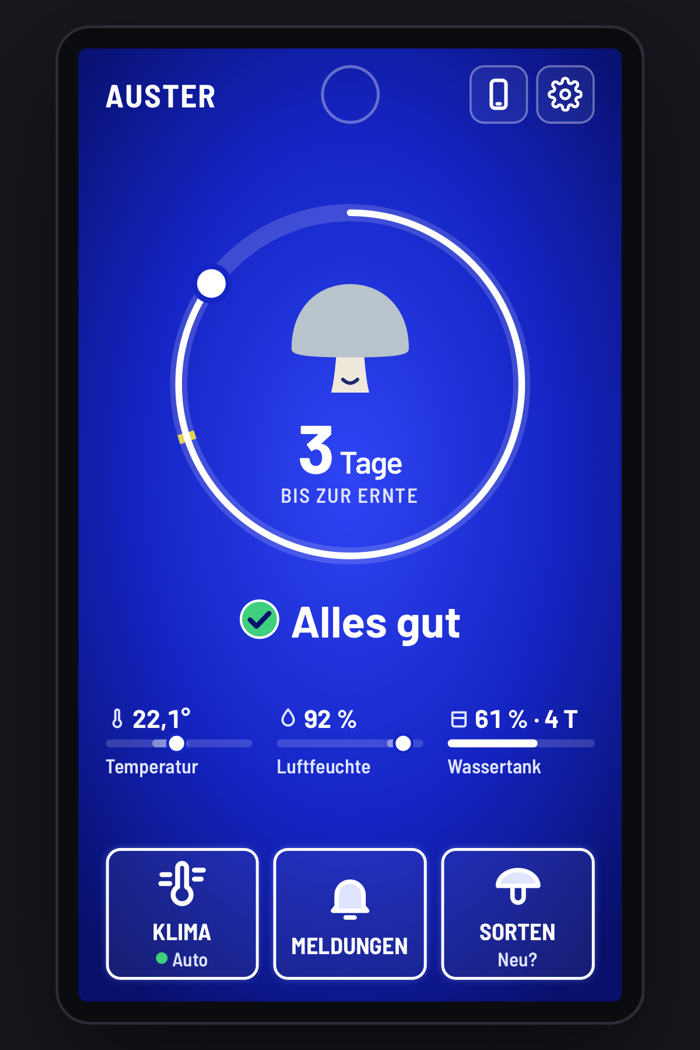
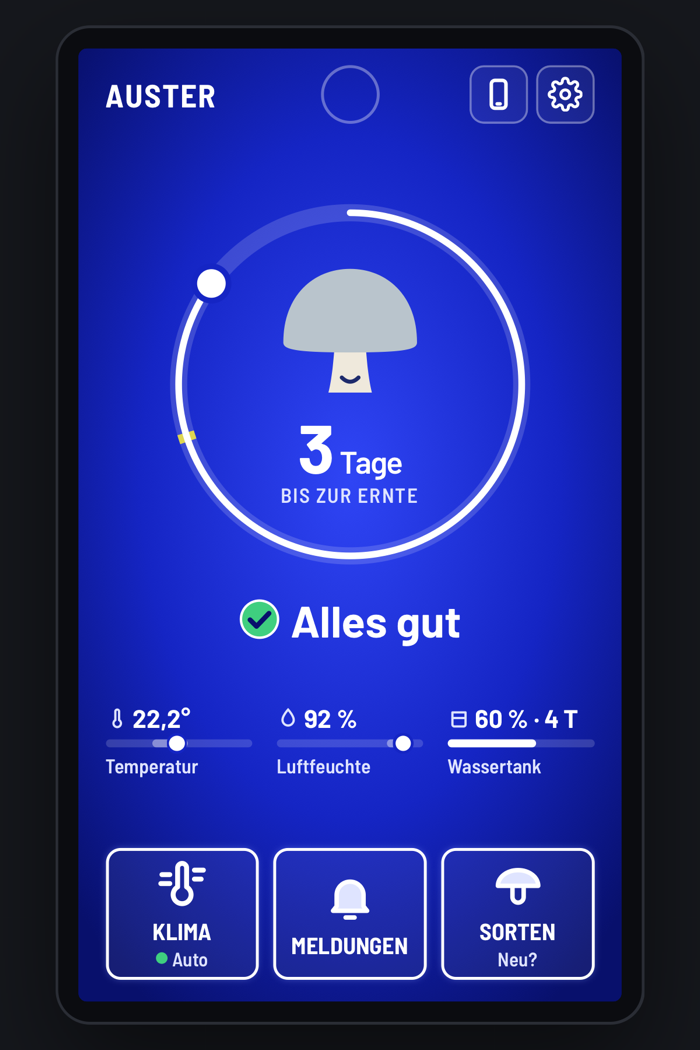
feat: Ernte fertig als 5-s-Zeitraffer, Pilz wächst in drei Stufen

diff --git a/01-konzept/bedienfeld/index.html b/01-konzept/bedienfeld/index.html
@@ -90,7 +90,7 @@ button{font:inherit;color:inherit;cursor:pointer;-webkit-tap-highlight-color:tra
 .ring > svg{position:absolute;inset:0;width:100%;height:100%;transform:rotate(-90deg);overflow:visible}
 .ring circle{fill:none;transition:stroke-dasharray .8s ease}
 .inner{position:absolute;inset:0;display:flex;flex-direction:column;align-items:center;justify-content:center;line-height:1}
-.shroom{width:27cqw;height:27cqw;margin-top:2cqw;overflow:visible}
+.shroom{width:27cqw;height:27cqw;margin-top:2cqw;overflow:visible;transform-origin:50% 88%;transition:transform .45s ease-out}
 .shroom .drop{fill:var(--ink-soft);opacity:0}
 .misting .drop{animation:drip 2.2s ease-in infinite}
 .misting .drop:nth-of-type(2){animation-delay:.7s}.misting .drop:nth-of-type(3){animation-delay:1.4s}
@@ -444,13 +444,16 @@ function step(d){
 for(let i=0;i<120;i++) step(new Date(Date.now()-(120-i)*3000));
 
 /* Fortschritt bis zur (nächsten) Ernte: Durchwachsen + Fruchtung, nach der Ernte Ruhe + Fruchtung */
+/* Zeitraffer (Admin „Ernte fertig“): gespielte Tage seit dem Ansetzen, sonst null */
+let lapse=null, lapseTimer=null;
 function progress(){
   const P=SPECIES[S.species].p, d=day();
   let tot, el, tick;
   if(S.phase==="ruhe"){tot=P.ruhe.days+P.frucht.days; el=d-1; tick=P.ruhe.days/tot}
   else{tot=P.kol.days+P.frucht.days; el=(S.phase==="frucht"?P.kol.days:0)+d-1; tick=P.kol.days/tot}
   if(demo.harvest&&S.phase==="frucht") el=tot;
-  return {p:Math.max(0,Math.min(1,el/tot)), left:Math.max(0,Math.ceil(tot-el)), tick};
+  if(lapse!==null) el=lapse;
+  return {p:Math.max(0,Math.min(1,el/tot)), left:Math.max(0,Math.ceil(tot-el)), tick, tot, el};
 }
 /* Tank-Reichweite (Annahme: voller Tank reicht 7 Tage, im Urlaub 10) */
 const tankDays=()=>Math.floor(sim.tank/100*(S.away?10:7));
@@ -550,6 +553,8 @@ function render(){
   else{$("#hum").innerHTML=`${pr.left}<small>${pr.left===1?"Tag":"Tage"}</small>`;$("#humlbl").textContent="bis zur Ernte"}
   // Pilz-Gesicht: froh (ok/info), besorgt (warn), gestresst (crit)
   const sh=$("#shroom");
+  // Wachstum in drei Stufen: klein · mittel (Grundgröße) · groß
+  sh.style.transform=`scale(${S.power?(pr.p<1/3?.84:pr.p<2/3?1:1.14):1})`;
   $("#cap").setAttribute("fill",SPECIES[S.species].cap);
   $("#mouth").setAttribute("d",!S.power?"M46 80h8":sev==="crit"?"M44 83q6 -7 12 0":sev==="warn"?"M45 81q5 -3 10 0":"M45 79q5 5 10 0");
   $("#brows").setAttribute("opacity",sev==="crit"||sev==="warn"?1:0);
@@ -843,6 +848,18 @@ function simFault(k){
   toggleDemo(k);
   if(k==="cold"){sim.t=tgt().t[0]-2.6;render()}
 }
+/* 5 s Zeitraffer bis zur Ernte: Ring läuft voll, Tage zählen herunter, der Pilz wächst. Danach wie bisher Ernte fertig. */
+function startLapse(){
+  if(lapseTimer) return;
+  clearSituations(); closePanel(); S.sleep=false; S.power=true;
+  const pr=progress(), el0=pr.el, tot=pr.tot, t0=performance.now();
+  msg("Zeitraffer: "+pr.left+" Tage in 5 Sekunden");
+  lapseTimer=setInterval(()=>{
+    const k=Math.min(1,(performance.now()-t0)/5000);
+    lapse=el0+(tot-el0)*k; render();
+    if(k>=1){clearInterval(lapseTimer);lapseTimer=null;lapse=null;simHarvest()}
+  },50);
+}
 function simHarvest(){
   clearSituations(); closePanel();
   S.sleep=false;S.power=true;
@@ -859,11 +876,11 @@ function demoPanel(){
   const SHROOM_IC='<svg viewBox="0 0 24 24" fill="none" stroke="currentColor" stroke-width="2.2" stroke-linejoin="round"><path d="M3 12.5a9 7.5 0 0 1 18 0z"/><path d="M10 12.5V20h4v-7.5"/></svg>';
   panel("admin","Admin-Modus",`<div class="list">
       <button class="opt" data-f>${IC.warn}<div>Fehlermeldung<small>Wassertank leer</small></div></button>
-      <button class="opt" data-h>${SHROOM_IC}<div>Ernte fertig<small>Pilze reif, dann neue Sorte</small></div></button>
+      <button class="opt" data-h>${SHROOM_IC}<div>Ernte fertig<small>5 s Zeitraffer bis zur Ernte</small></div></button>
       <button class="opt" data-reset>${RESET_IC}<div>Zurücksetzen<small>Start: 15 Tage bis zur Ernte</small></div></button>
     </div>`,p=>{
     p.querySelector("[data-f]").onclick=()=>simFault("tank");
-    p.querySelector("[data-h]").onclick=simHarvest;
+    p.querySelector("[data-h]").onclick=startLapse;
     p.querySelector("[data-back]").onclick=settingsPanel;
     p.querySelector("[data-reset]").onclick=()=>{try{localStorage.removeItem("growbox-display-v5")}catch(e){};location.reload()};
   });

diff --git a/BRIEF.md b/BRIEF.md
@@ -59,7 +59,7 @@ Von Felix bestätigt. Diese Tabelle ist der maßgebliche Stand; Überholtes wird
 | 7–8 | Hardware | **Raspberry Pi bleibt Steuerrechner; als Display dient ein fest eingebautes iPhone 13 mini** (statt Touch Display 2), das die Web-Oberfläche des Pi über WLAN zeigt; Dauerstrom per Kabel. **Echt:** Taster und LED. **Simuliert:** Feuchte und Temperatur (für die Vorführung umschaltbar). Lüfter, Vernebler und Sensor sind nicht Teil des Prototyps. |
 | – | **Leitidee** | **B „Radikal einfach“:** ein großer Zustand (Farbe + Symbol + ein Satz), darunter drei große Kacheln. Verworfen: A „Pilz-Begleiter“ (Charakter, Gamification), C „Physisch zuerst“ (Taster/Drehknopf/LED-Ring). |
 | 10 | Startbild | **Nur 2 Stufen:** „Alles gut“ (grüner Kreis mit Haken) oder **Warnung** (gelbes Warndreieck nach ISO 7010, schwarzer Rand und „!“). Immer Form + Farbe + Text. **Blinken nur beim Warnpunkt** oben (Handeln nötig, Folie 27); alles andere ruhig. Hinweise wie „Ernte prüfen“ laufen unter „Alles gut“. |
-| 10 | Bedienfeld (Box) | **Stand 2026-11-02 (v6):** `01-konzept/bedienfeld/index.html`, aufbauend auf dem Panel-Prototyp (https://claude.ai/artifact/EGmf5bvFTK16eYGfKWVkPE). Begründungen mit Folien: `04-final/entscheidungen-folien.md` und `01-konzept/folien-recherche.md`. **Grundsatz:** Das Display bleibt schlank, Erweitertes gehört in die App (eigene Sorten, 1 Min lüften/befeuchten, Analytics). **Kopfzeile:** eine Zeile, alles 44 pt hoch: links Sorte in Großbuchstaben (AUSTER …); Mitte **Warnpunkt** (dunkler Ring; leuchtet orange und **blinkt nur im Standby**, ohne „!“; wirkt wie ein Warnlicht, siehe Ruhemodus); rechts **Handy-Symbol** und **Zahnrad** als gleich große Knöpfe. Handy antippen → Code + Knopf **VERBUNDEN** → Symbol ausgeblendet (zurück: Einstellungen → Handy verbinden → Trennen; **nach dem Neuladen ist das Symbol wieder da**, für die Präsentation). Keine Uhr. **Mitte:** Ring = Fortschritt bis zur Ernte, in der Mitte Tage bis zur Ernte; darunter Status (nur „Alles gut“, etwas größer, ohne Satz darunter (2026-11-04), oder Warnung mit Handlung und einem großen Knopf). **Werte:** Temperatur · Luftfeuchte · Wassertank einheitlich (Zahl, Balken, Name); Tank als `62 % · 4 T` in gleicher Schrift (T = Tage, Vorlesetext „reicht ca. 4 Tage“). Werte außerhalb des Bereichs mit Warndreieck. **3 Kacheln:** **KLIMA** (klein „Auto“ mit ruhigem grünem Punkt) · **MELDUNGEN** (Zahl) · **SORTEN** (klein „Neu“). **Klima-Fenster (2026-11-04):** ein Satz oben („Die Box regelt Luft, Feuchte, Wärme und Licht selbst.“), darunter 4 Balken wie in den Einstellungen: Lüfter · Nebler · Heizung · Licht, je **AUTO** und 1–3 weiße Wörter (frische Luft · hält feucht · hält warm · Tag und Nacht); **ohne Eingriff**, keine Live-Zustände, kein Taster-Hinweis mehr. **Klima und Meldungen** haben dieselbe Größe wie die Einstellungen. **Meldungen:** Stand mit Datum/Uhrzeit, offene Meldungen mit Handlung und „seit“, **Verlauf behobener Meldungen grün mit Haken** („behoben · von – bis“). „Zu nass“/„Braucht Frischluft“ mit GESEHEN. **Sorten · Neu:** oben Stand des Durchgangs und Knopf **Neu ansetzen …** (Sorte wählen, aktuelle „wie bisher“ oben) → Hinweis, was verloren geht → **2 s gedrückt halten** → Kammer leeren → Zuchtset einsetzen, Tag 1. Darunter Sorten **ansehen** (Schwierigkeit, Dauer, Temperatur, Feuchte). **Notfall-Rückweg** „Zurück zu …“ 14 Tage. **Einstellungen (Zahnrad):** Handy verbinden · Urlaub · **Sprache** (Prototyp nur Deutsch, andere ausgegraut) · **Darstellung** (Standard Blau / **Hoher Kontrast** Schwarz) · **Hilfe** (rote Flagge, früher „Fehler melden“: Kategorie antippen, geht an die App); „Handy verbinden“ zeigt nur „Meldungen aufs Handy“ (Code erst nach Antippen); „Über diese Box“ entfällt. Balken in Einstellungen und Admin ca. 1,5× so hoch, Schrift größer (Fingerbedienung); ganz unten **Admin-Modus**. **Kein Ruhemodus als Einstellung** (2026-11-04, zu verwirrend für die Präsentation; Standby lässt sich nicht von Hand einschalten). **Standby** nur im Admin-Fall „Tank leer“: Display schwarz ohne Text, nur ein **oranger Punkt (ohne „!“) blinkt**; Antippen beendet den Standby, das Blinken geht aus, und die normale Ansicht zeigt die Meldung. In der normalen Ansicht blinkt kein Punkt, die Warnung steht als Text mit Warndreieck da. **Urlaub:** nur unter Einstellungen, oben „URLAUB ✕“. **Barrierefreiheit:** Kontrast Text ≥ 4,5 : 1 (Warntexte weiß, Nebentexte `#dfe4ff`), Touch-Ziele ≥ 44 pt, Schrift für 50–70 cm, Status nie nur über Farbe, Blinken langsam und bei „Bewegung reduzieren“ aus. Licht nur über Taster und App (Ausnahme bis 8/20 Uhr). Heizung simuliert, Kühlen nur Hinweis. **Admin-Modus (2026-11-04, für die Präsentation):** nur noch **genau zwei Fälle** plus **Zurücksetzen**: **1 · Tank leer** (Standby, siehe oben; AUFGEFÜLLT behebt es, danach bleibt das Display an) und **2 · Pilze fertig** (Ernte fertig → GEERNTET → SORTEN → Neu ansetzen). **Startzustand:** Austernpilz frisch angesetzt (Wachstumsphase), **15 Tage bis zur Ernte**, damit der Sprung zur Ernte sichtbar ist. Die übrigen Fehler, automatischen Vorführungen, Tag +1, Taster und Messwerte sind nicht mehr erreichbar (Code bleibt). Ältere Stände (v1–v5, Original) in `01-konzept/bedienfeld/verlauf/`. |
+| 10 | Bedienfeld (Box) | **Stand 2026-11-02 (v6):** `01-konzept/bedienfeld/index.html`, aufbauend auf dem Panel-Prototyp (https://claude.ai/artifact/EGmf5bvFTK16eYGfKWVkPE). Begründungen mit Folien: `04-final/entscheidungen-folien.md` und `01-konzept/folien-recherche.md`. **Grundsatz:** Das Display bleibt schlank, Erweitertes gehört in die App (eigene Sorten, 1 Min lüften/befeuchten, Analytics). **Kopfzeile:** eine Zeile, alles 44 pt hoch: links Sorte in Großbuchstaben (AUSTER …); Mitte **Warnpunkt** (dunkler Ring; leuchtet orange und **blinkt nur im Standby**, ohne „!“; wirkt wie ein Warnlicht, siehe Ruhemodus); rechts **Handy-Symbol** und **Zahnrad** als gleich große Knöpfe. Handy antippen → Code + Knopf **VERBUNDEN** → Symbol ausgeblendet (zurück: Einstellungen → Handy verbinden → Trennen; **nach dem Neuladen ist das Symbol wieder da**, für die Präsentation). Keine Uhr. **Mitte:** Ring = Fortschritt bis zur Ernte, in der Mitte Tage bis zur Ernte; darunter Status (nur „Alles gut“, etwas größer, ohne Satz darunter (2026-11-04), oder Warnung mit Handlung und einem großen Knopf). **Werte:** Temperatur · Luftfeuchte · Wassertank einheitlich (Zahl, Balken, Name); Tank als `62 % · 4 T` in gleicher Schrift (T = Tage, Vorlesetext „reicht ca. 4 Tage“). Werte außerhalb des Bereichs mit Warndreieck. **3 Kacheln:** **KLIMA** (klein „Auto“ mit ruhigem grünem Punkt) · **MELDUNGEN** (Zahl) · **SORTEN** (klein „Neu“). **Klima-Fenster (2026-11-04):** ein Satz oben („Die Box regelt Luft, Feuchte, Wärme und Licht selbst.“), darunter 4 Balken wie in den Einstellungen: Lüfter · Nebler · Heizung · Licht, je **AUTO** und 1–3 weiße Wörter (frische Luft · hält feucht · hält warm · Tag und Nacht); **ohne Eingriff**, keine Live-Zustände, kein Taster-Hinweis mehr. **Klima und Meldungen** haben dieselbe Größe wie die Einstellungen. **Meldungen:** Stand mit Datum/Uhrzeit, offene Meldungen mit Handlung und „seit“, **Verlauf behobener Meldungen grün mit Haken** („behoben · von – bis“). „Zu nass“/„Braucht Frischluft“ mit GESEHEN. **Sorten · Neu:** oben Stand des Durchgangs und Knopf **Neu ansetzen …** (Sorte wählen, aktuelle „wie bisher“ oben) → Hinweis, was verloren geht → **2 s gedrückt halten** → Kammer leeren → Zuchtset einsetzen, Tag 1. Darunter Sorten **ansehen** (Schwierigkeit, Dauer, Temperatur, Feuchte). **Notfall-Rückweg** „Zurück zu …“ 14 Tage. **Einstellungen (Zahnrad):** Handy verbinden · Urlaub · **Sprache** (Prototyp nur Deutsch, andere ausgegraut) · **Darstellung** (Standard Blau / **Hoher Kontrast** Schwarz) · **Hilfe** (rote Flagge, früher „Fehler melden“: Kategorie antippen, geht an die App); „Handy verbinden“ zeigt nur „Meldungen aufs Handy“ (Code erst nach Antippen); „Über diese Box“ entfällt. Balken in Einstellungen und Admin ca. 1,5× so hoch, Schrift größer (Fingerbedienung); ganz unten **Admin-Modus**. **Kein Ruhemodus als Einstellung** (2026-11-04, zu verwirrend für die Präsentation; Standby lässt sich nicht von Hand einschalten). **Standby** nur im Admin-Fall „Tank leer“: Display schwarz ohne Text, nur ein **oranger Punkt (ohne „!“) blinkt**; Antippen beendet den Standby, das Blinken geht aus, und die normale Ansicht zeigt die Meldung. In der normalen Ansicht blinkt kein Punkt, die Warnung steht als Text mit Warndreieck da. **Urlaub:** nur unter Einstellungen, oben „URLAUB ✕“. **Barrierefreiheit:** Kontrast Text ≥ 4,5 : 1 (Warntexte weiß, Nebentexte `#dfe4ff`), Touch-Ziele ≥ 44 pt, Schrift für 50–70 cm, Status nie nur über Farbe, Blinken langsam und bei „Bewegung reduzieren“ aus. Licht nur über Taster und App (Ausnahme bis 8/20 Uhr). Heizung simuliert, Kühlen nur Hinweis. **Admin-Modus (2026-11-04, für die Präsentation):** nur noch **genau zwei Fälle** plus **Zurücksetzen**: **1 · Tank leer** (Standby, siehe oben; AUFGEFÜLLT behebt es, danach bleibt das Display an) und **2 · Pilze fertig** (Ernte fertig startet einen **5-s-Zeitraffer**: Ring läuft voll, Tage zählen herunter, der Pilz wächst in **drei Stufen** (klein < ⅓ · mittel = bisherige Größe · groß > ⅔ des Fortschritts, Unterschied bewusst leicht); danach GEERNTET → SORTEN → Neu ansetzen). Die drei Wachstumsstufen gelten immer, nicht nur im Zeitraffer (Gamification: Progression). **Startzustand:** Austernpilz frisch angesetzt (Wachstumsphase), **15 Tage bis zur Ernte**, damit der Sprung zur Ernte sichtbar ist. Die übrigen Fehler, automatischen Vorführungen, Tag +1, Taster und Messwerte sind nicht mehr erreichbar (Code bleibt). Ältere Stände (v1–v5, Original) in `01-konzept/bedienfeld/verlauf/`. |
 | 9 | App-Aufbau | **Separate App:** einfache Startseite + 5 Unterseiten, eine davon **Advanced Analytics**. |
 | – | Booklet und Präsentation | **Story mit zwei Personen** (2026-11-02): **A** älterer Nutzer, der wenig bedient (Persona Ingrid, nur Box), und **B** Power-User, der die App als Zusatz nutzt. **Jede Entscheidung muss sich auf A oder B zurückführen lassen**, mit Folie und Erklärung: `04-final/entscheidungen-folien.md`. Dazu Ausschnitt Bauprozess mit Skizzen und 1–2 FreeCAD-Bildern. **Präsentation ca. 5 Minuten, ohne Folien** (2026-11-04): live 3D-Entwurf/Haptik (Teammitglied, ca. 1–1,5 Min.) → **Bedienfeld (Felix, 2 Min.)** → App (Anlin, ca. 1,5 Min.); Personas **ohne Altersangabe** (A Ingrid, B Power-User). Bedienfeld an Ingrid: Oberfläche kurz begründen, dann **Case 1 Tank leer** (haptische Aufgabe) → **Case 2 Pilze fertig, neue Sorte** → **Case 3 Handy verbinden** zuletzt als Übergang zur App. Spickzettel mit Stichpunkten in `04-final/praesentation.md`. Der Foliensatz https://claude.ai/artifact/DcLZePjqNpwgHBrxHGHFha wird nicht gezeigt. **Bedienfeld in der Box:** iPhone als Web-App vom Home-Bildschirm im Vollbild, Seite vom Mac (`01-konzept/bedienfeld/iphone-server.sh`), bis der Pi das übernimmt. **Für den 05.11. ist Vollbild wichtiger als App-Sync** (2026-11-04): Das iPhone in der Box läuft ohne Verbindung zur App; die Sync mit der App zeigt nur das Bedienfeld am Mac über den claude.ai-Link. **Booklet: 5 Seiten pro Person**; Felix: Box + Bedienfeld an Typ A (`04-final/booklet-felix.md`), abgestimmt mit den Teilen der anderen. Grundlage ist das eingefrorene Bedienfeld v6 in `04-final/bedienfeld-v6/`. |
 | – | Begriffe Box ↔ App | Gleiche Wörter, Symbole und Farben in Box und App: `01-konzept/begriffe-box-app.md` (für das App-Teammitglied). |

diff --git a/04-final/praesentation.md b/04-final/praesentation.md
@@ -41,6 +41,7 @@ Die **drei Kacheln** (KLIMA · MELDUNGEN · SORTEN) und die **Einstellungen** be
 
 ### 1:15 · Case 2: Pilze fertig → SORTEN (30 s)
 *Zahnrad → Admin-Modus → **Tag 6 der Fruchtung · Ernte fertig***
+- **5 s Zeitraffer:** Ring läuft voll, Tage zählen 15 → 0, der Pilz wächst sichtbar (klein → mittel → groß). Das ist die leichte Gamification: Fortschritt sehen, ohne Punkte oder Spielfigur. *(Progression, Flow · G 10, G 12)*
 - Der Ring ist voll, oben steht weiter **„Alles gut“**, darunter der Knopf **GEERNTET**: ein Hinweis, keine Warnung, denn nichts ist kaputt. → *GEERNTET*.
 - *Kachel SORTEN → Neu ansetzen … → Sorte wählen*: Vorher steht da, **was verloren geht**, dann **2 s gedrückt halten**. Versehen ist ausgeschlossen. *(Murphy · 61, Fehler vermeiden · 130)*
 - *Kammer leeren → Zuchtset einsetzen* → **Tag 1, es geht von vorn los.**
